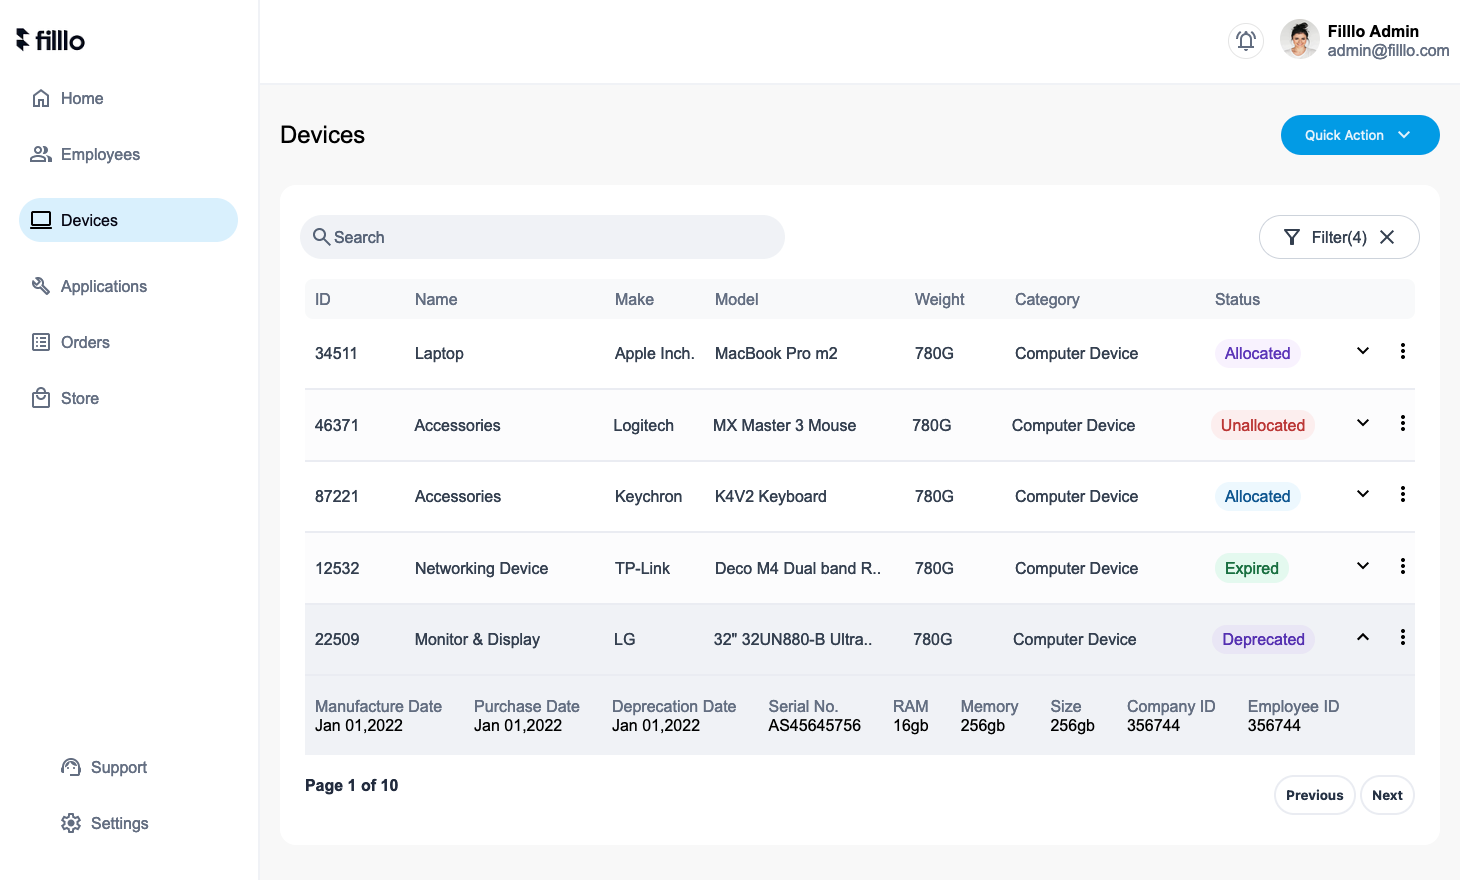
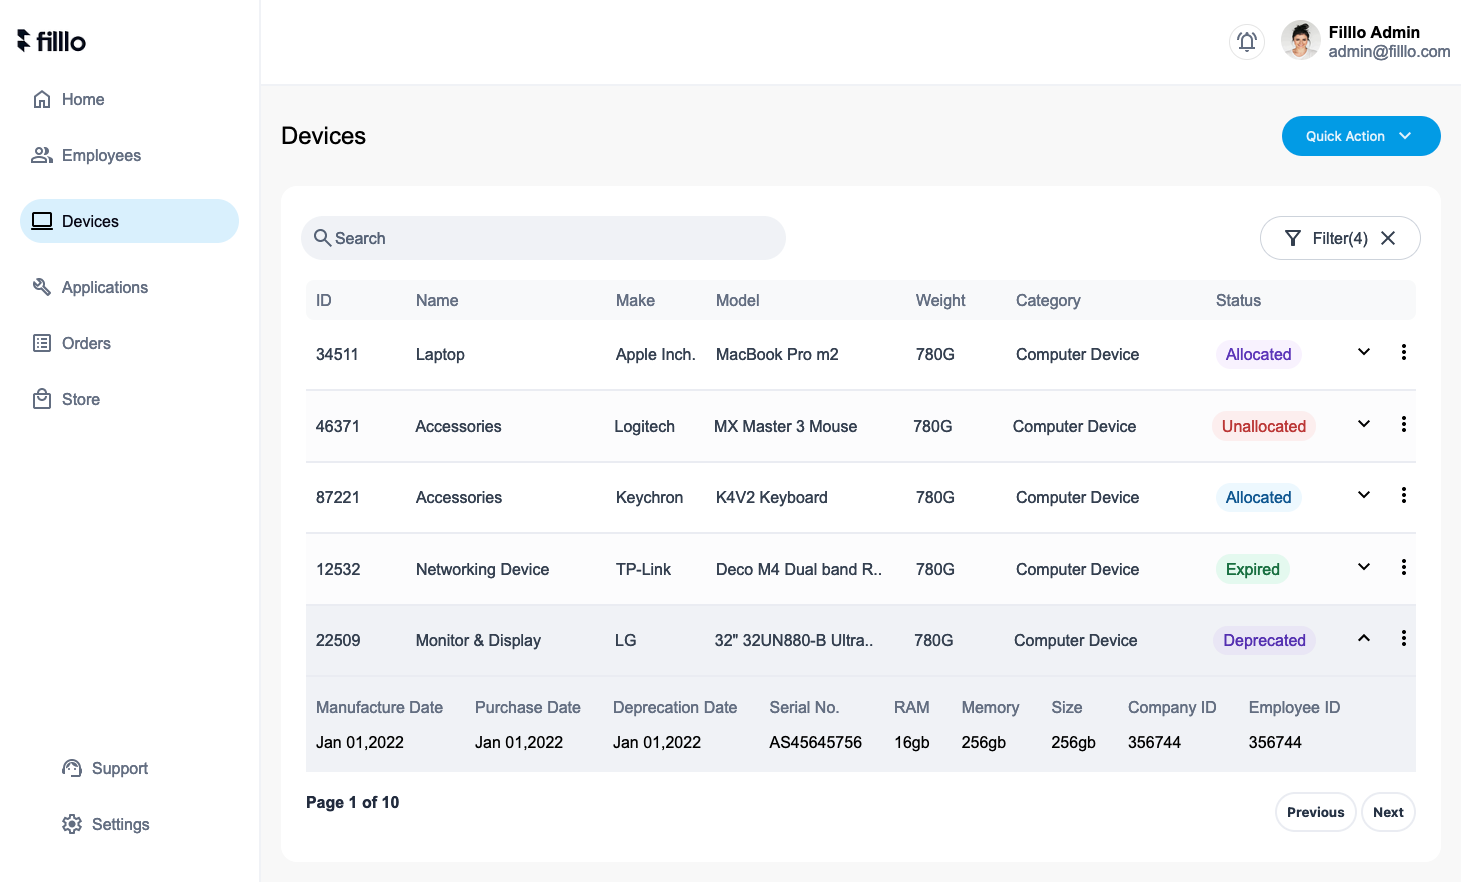
bug fixed

diff --git a/index.html b/index.html
@@ -162,39 +162,39 @@
                             </div>
                         </div>
                         <div class="item-special">
-                            <div>
+                            <div class="last">
                                 <div>Manufacture Date</div>
                                 <div class="black">Jan 01,2022</div>
                             </div>
-                            <div>
+                            <div class="last">
                                 <div>Purchase Date</div>
                                 <div class="black">Jan 01,2022</div>
                             </div>
-                            <div>
+                            <div class="last">
                                 <div>Deprecation Date</div>
                                 <div class="black">Jan 01,2022</div>
                             </div>
-                            <div>
+                            <div class="last">
                                 <div>Serial No.</div>
                                 <div class="black">AS45645756</div>
                             </div>
-                            <div>
+                            <div class="last">
                                 <div>RAM</div>
                                 <div class="black">16gb</div>
                             </div>
-                            <div>
+                            <div class="last">
                                 <div>Memory</div>
                                 <div class="black">256gb</div>
                             </div>
-                            <div>
+                            <div class="last">
                                 <div>Size</div>
                                 <div class="black">256gb</div>
                             </div>
-                            <div>
+                            <div class="last">
                                 <div>Company ID</div>
                                 <div class="black">356744</div>
                             </div>
-                            <div>
+                            <div class="last">
                                 <div>Employee ID</div>
                                 <div class="black">356744</div>
                             </div>

diff --git a/css/style.css b/css/style.css
@@ -270,6 +270,12 @@ nav {
     padding: 5px 10px;
 }
 
+.last {
+    display: flex;
+    flex-direction: column;
+    gap: 1rem;
+}
+
 .footer {
     display: flex;
     justify-content: space-between;
